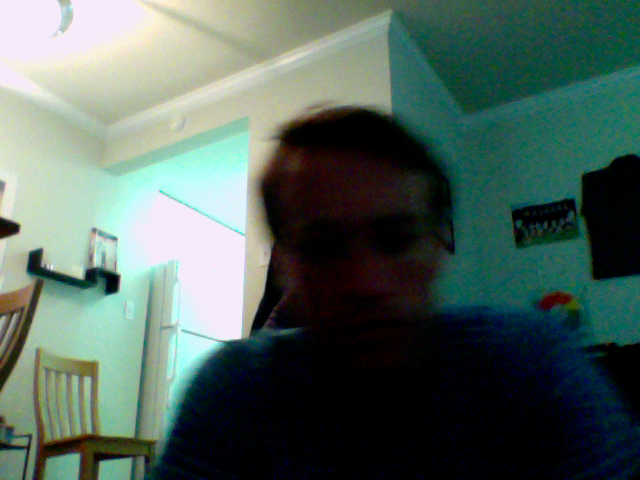
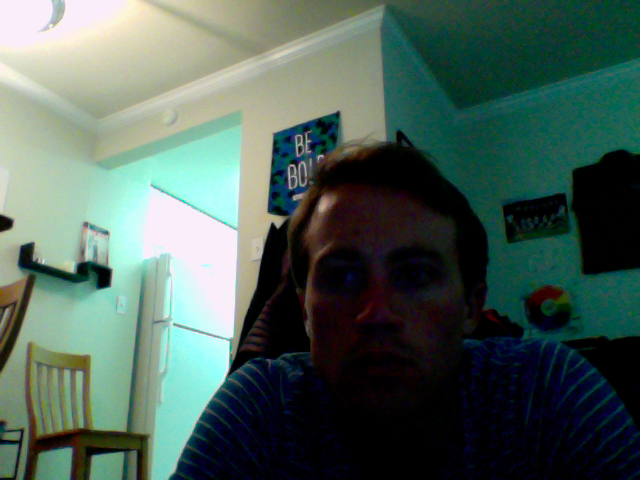
update at Month05Day07Time16:47

diff --git a/index.html b/index.html
@@ -39,7 +39,7 @@
       <!-- Example row of columns -->
       <div class="row">
         <div class="col-md-4">
-	<p>This picture was updated at Month05Day07Time16:05</p>
+	<p>This picture was updated at Month05Day07Time16:47</p>
 		<img src="old.png" />
         <p><a class="btn btn-primary btn-lg" href="/" role="button">Refresh</a></p>
         </div>
